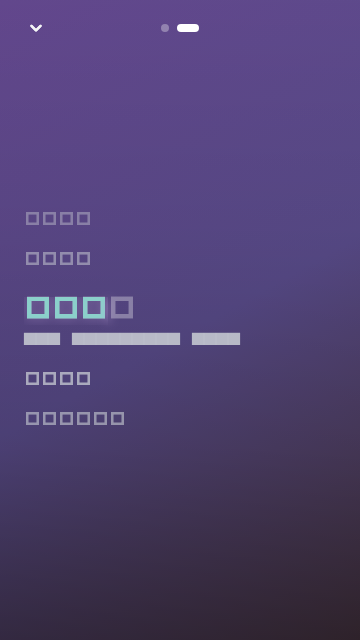
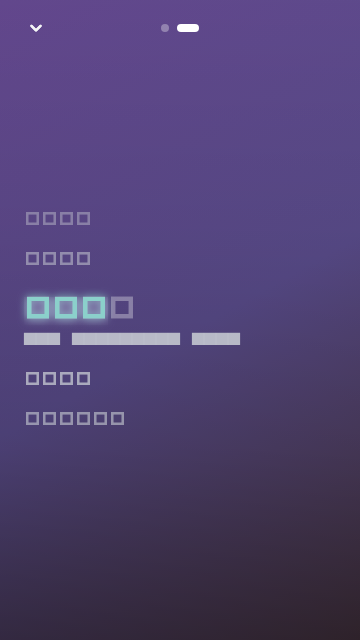
fix: 优化 Monet 歌词光晕与行切换动画

Changed region(s): [[0.0611, 0.4375, 0.3056, 0.5312]]

diff --git a/lib/features/lyrics/presentation/widgets/monet_lyric_painter.dart b/lib/features/lyrics/presentation/widgets/monet_lyric_painter.dart
@@ -20,7 +20,6 @@ class MonetLyricPaintLine {
     required this.positioned,
     required this.mainPainter,
     required this.accentPainter,
-    required this.tokenEdgePaint,
     required this.translationPainter,
     required this.tokens,
   });
@@ -28,7 +27,6 @@ class MonetLyricPaintLine {
   final MonetPositionedLyricLine positioned;
   final TextPainter mainPainter;
   final TextPainter? accentPainter;
-  final Paint? tokenEdgePaint;
   final TextPainter? translationPainter;
   final List<MonetTokenPaintData> tokens;
 }
@@ -150,14 +148,6 @@ MonetLyricRenderData buildMonetLyricRenderData({
           positioned: positioned,
           mainPainter: mainPainter,
           accentPainter: accentPainter,
-          tokenEdgePaint: accentPainter == null
-              ? null
-              : (Paint()
-                  ..color = palette.edge.withValues(alpha: 0.88)
-                  ..maskFilter = const ui.MaskFilter.blur(
-                    ui.BlurStyle.normal,
-                    5,
-                  )),
           translationPainter: translationPainter,
           tokens: List<MonetTokenPaintData>.unmodifiable(tokenPaintData),
         );
@@ -220,6 +210,34 @@ List<Rect> resolveMonetTokenClipRects({
   return List<Rect>.unmodifiable(clips);
 }
 
+@visibleForTesting
+double resolveMonetLineTransitionScale({
+  required double currentFontSize,
+  required double? previousFontSize,
+  required double transitionValue,
+}) {
+  final current = currentFontSize.isFinite && currentFontSize > 0
+      ? currentFontSize
+      : 1.0;
+  final previous =
+      previousFontSize != null &&
+          previousFontSize.isFinite &&
+          previousFontSize > 0
+      ? previousFontSize
+      : current;
+  final progress = transitionValue.isFinite
+      ? transitionValue.clamp(0.0, 1.0)
+      : 1.0;
+  return ui.lerpDouble(previous / current, 1.0, progress)!;
+}
+
+double _fontSize(TextPainter painter) {
+  final span = painter.text;
+  return span is TextSpan && span.style?.fontSize != null
+      ? span.style!.fontSize!
+      : 1.0;
+}
+
 class MonetLyricPainter extends CustomPainter {
   MonetLyricPainter({
     required this.data,
@@ -243,25 +261,27 @@ class MonetLyricPainter extends CustomPainter {
     final timelinePosition = position.value + data.timelineOffset;
     final animationValue = Curves.easeOutCubic.transform(transition.value);
     for (final line in data.lines) {
+      final previousLine = _previousLineFor(line);
       _paintLine(
         canvas,
         line,
         timelinePosition,
         animationValue,
-        _previousTopFor(line),
+        previousLine?.positioned.rect.top,
+        previousLine,
       );
     }
     canvas.restore();
   }
 
-  double? _previousTopFor(MonetLyricPaintLine line) {
+  MonetLyricPaintLine? _previousLineFor(MonetLyricPaintLine line) {
     final previous = previousData;
     if (previous == null) {
       return null;
     }
     for (final candidate in previous.lines) {
       if (candidate.positioned.entry.key == line.positioned.entry.key) {
-        return candidate.positioned.rect.top;
+        return candidate;
       }
     }
     return null;
@@ -273,6 +293,7 @@ class MonetLyricPainter extends CustomPainter {
     Duration timelinePosition,
     double transitionValue,
     double? previousTop,
+    MonetLyricPaintLine? previousLine,
   ) {
     final positioned = line.positioned;
     final currentTop = positioned.rect.top;
@@ -285,9 +306,25 @@ class MonetLyricPainter extends CustomPainter {
         positioned.measurement.mainTextOffset +
         Offset(0, shift);
 
+    final currentFontSize = _fontSize(line.mainPainter);
+    final previousFontSize = previousLine == null
+        ? null
+        : _fontSize(previousLine.mainPainter);
+    final lineScale = resolveMonetLineTransitionScale(
+      currentFontSize: currentFontSize,
+      previousFontSize: previousFontSize,
+      transitionValue: transitionValue,
+    );
+    // Keep the left edge fixed so Monet text grows toward the right.
+    final transformOrigin = mainOrigin;
+    canvas.save();
+    canvas.translate(transformOrigin.dx, transformOrigin.dy);
+    canvas.scale(lineScale, lineScale);
+    canvas.translate(-transformOrigin.dx, -transformOrigin.dy);
     line.mainPainter.paint(canvas, mainOrigin);
     final accentPainter = line.accentPainter;
     if (accentPainter != null) {
+      final revealedClips = <Rect>[];
       for (final tokenData in line.tokens) {
         if (tokenData.boxes.isEmpty || !tokenData.token.hasTiming) {
           continue;
@@ -296,36 +333,24 @@ class MonetLyricPainter extends CustomPainter {
           timelinePosition: timelinePosition,
           token: tokenData.token,
         );
-        final clips = resolveMonetTokenClipRects(
-          boxes: tokenData.boxes,
-          progress: progress,
-          textDirection: data.textDirection,
+        revealedClips.addAll(
+          resolveMonetTokenClipRects(
+            boxes: tokenData.boxes,
+            progress: progress,
+            textDirection: data.textDirection,
+          ),
         );
-        for (final clip in clips) {
-          canvas.save();
-          canvas.clipRect(clip.shift(mainOrigin));
-          accentPainter.paint(canvas, mainOrigin);
-          canvas.restore();
+      }
+      if (revealedClips.isNotEmpty) {
+        _paintTokenGlow(canvas, accentPainter, revealedClips, mainOrigin);
+        final clipPath = Path();
+        for (final clip in revealedClips) {
+          clipPath.addRect(clip.shift(mainOrigin));
         }
-        final edgePaint = line.tokenEdgePaint;
-        if (edgePaint != null &&
-            progress > 0 &&
-            progress < 1 &&
-            clips.isNotEmpty) {
-          final leadingClip = clips.last.shift(mainOrigin);
-          final leadingX = data.textDirection == TextDirection.rtl
-              ? leadingClip.left
-              : leadingClip.right;
-          final edgeRect = Rect.fromCenter(
-            center: Offset(leadingX, leadingClip.center.dy),
-            width: 2.4,
-            height: leadingClip.height * 0.82,
-          );
-          canvas.drawRRect(
-            RRect.fromRectAndRadius(edgeRect, const Radius.circular(2)),
-            edgePaint,
-          );
-        }
+        canvas.save();
+        canvas.clipPath(clipPath);
+        accentPainter.paint(canvas, mainOrigin);
+        canvas.restore();
       }
     }
 
@@ -337,6 +362,36 @@ class MonetLyricPainter extends CustomPainter {
         positioned.rect.topLeft + translationOffset + Offset(0, shift),
       );
     }
+    canvas.restore();
+  }
+
+  // Blur an isolated revealed glyph mask so the glow can extend beyond the clip.
+  void _paintTokenGlow(
+    Canvas canvas,
+    TextPainter accentPainter,
+    List<Rect> clips,
+    Offset origin,
+  ) {
+    final shiftedClips = clips
+        .map((clip) => clip.shift(origin))
+        .toList(growable: false);
+    final glowBounds = shiftedClips
+        .skip(1)
+        .fold<Rect>(shiftedClips.first, (bounds, clip) {
+          return bounds.expandToInclude(clip);
+        })
+        .inflate(8);
+    final clipPath = Path();
+    for (final clip in shiftedClips) {
+      clipPath.addRect(clip);
+    }
+    canvas.saveLayer(
+      glowBounds,
+      Paint()..imageFilter = ui.ImageFilter.blur(sigmaX: 4.5, sigmaY: 4.5),
+    );
+    canvas.clipPath(clipPath);
+    accentPainter.paint(canvas, origin);
+    canvas.restore();
   }
 
   @override

diff --git a/test/features/lyrics/presentation/widgets/monet_lyric_rail_test.dart b/test/features/lyrics/presentation/widgets/monet_lyric_rail_test.dart
@@ -156,6 +156,32 @@ void main() {
         ]);
       },
     );
+    test('interpolates line scale across an active state change', () {
+      expect(
+        resolveMonetLineTransitionScale(
+          currentFontSize: 40,
+          previousFontSize: 20,
+          transitionValue: 0,
+        ),
+        closeTo(0.5, 0.0001),
+      );
+      expect(
+        resolveMonetLineTransitionScale(
+          currentFontSize: 40,
+          previousFontSize: 20,
+          transitionValue: 0.5,
+        ),
+        closeTo(0.75, 0.0001),
+      );
+      expect(
+        resolveMonetLineTransitionScale(
+          currentFontSize: 40,
+          previousFontSize: 20,
+          transitionValue: 1,
+        ),
+        1,
+      );
+    });
   });
 
   group('Monet repaint isolation', () {

diff --git a/assets/player_styles/artist_photo/LICENSES.md b/assets/player_styles/artist_photo/LICENSES.md
@@ -28,8 +28,8 @@
[7 lines of base64/hex data omitted]
 - Technical inspection: all seven previews render readable fixed Chinese text, metadata badges, playback time and controls without blank regions or overflow. Monet uses a deterministic five-line `LyricDocument` at `1:24`; the mobile preview opens the full lyric page and the desktop golden renders the same bounded rail beside the classic stage. Its active CJK line, word-timed accent sweep, translation, nearby context lines, transparent host, and cover-derived `PlayerScenePalette` are covered.
 - Replacement inspection: regenerated on 2026-07-27; only the vinyl mobile preview and desktop golden changed, while the other four style previews and both artist-photo fallback goldens remained byte-identical.
 - Radial-spectrum inspection: generated on 2026-07-30; the new mobile preview and desktop golden were added without changing the existing five mobile previews or existing desktop/fallback goldens.
